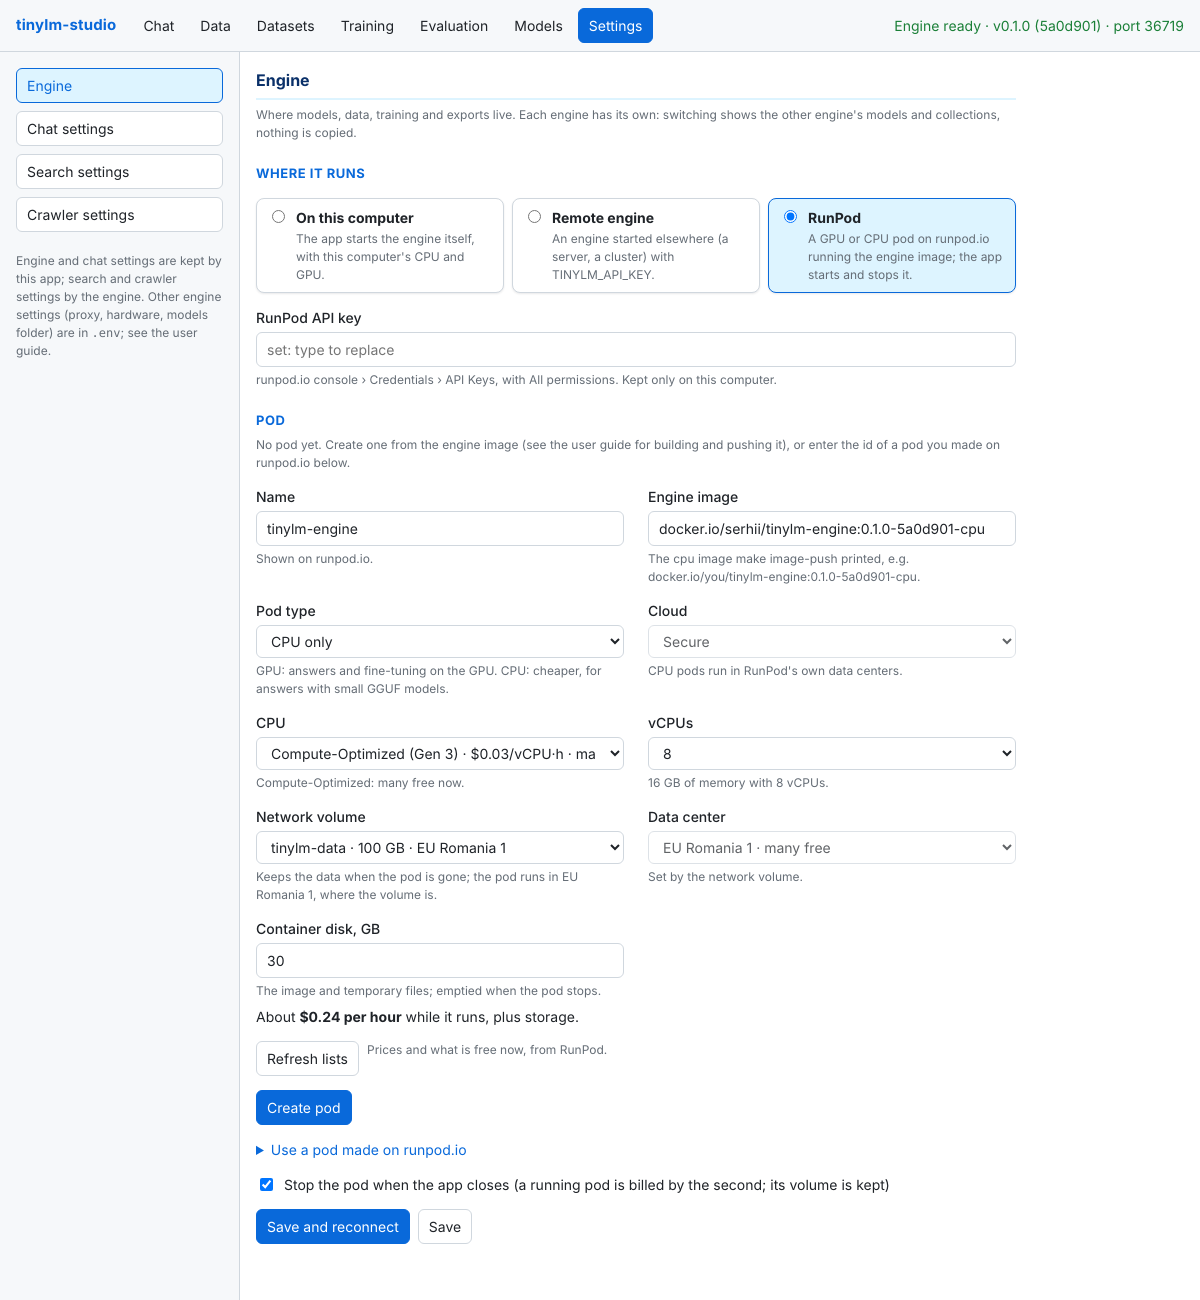
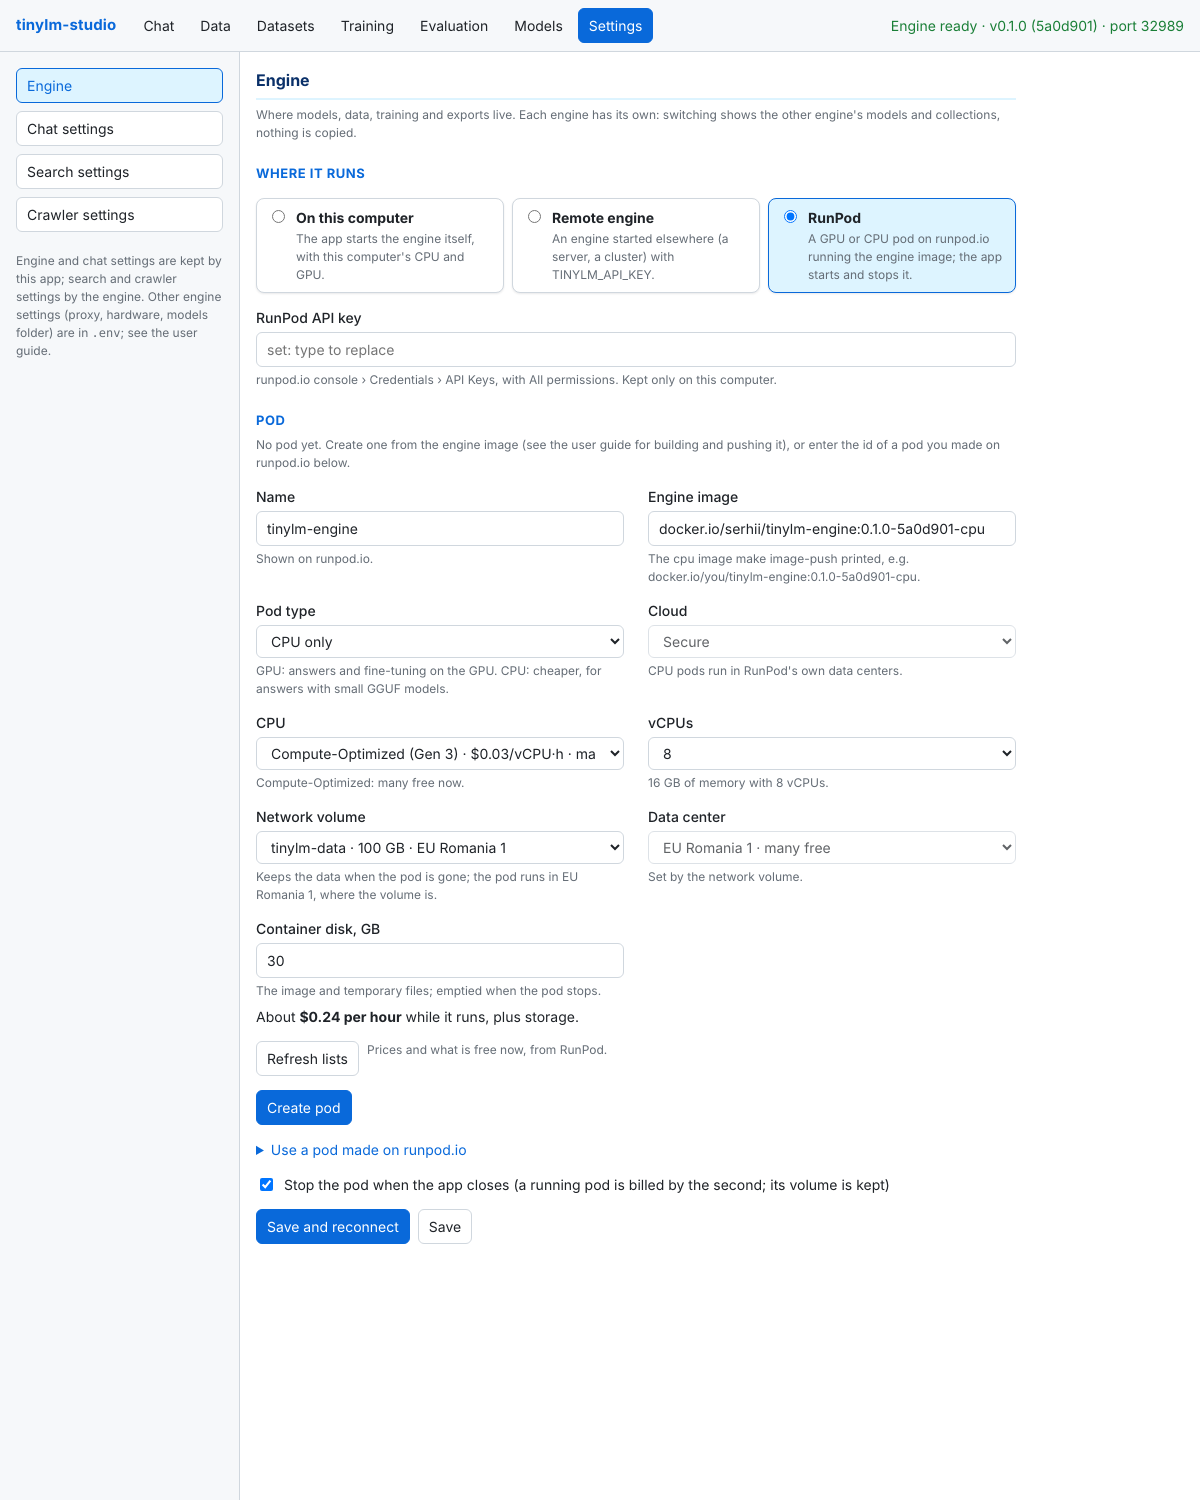
RunPod: GPUs as a table with memory, price and availability highlighted
The GPU choice is a table instead of a select: maker badge, video memory, price per hour (the
cheapest free one in green) and a colored "free now" badge; clicking a row chooses it, and
GPUs the image cannot run on (AMD) are greyed out.

Claude-Session: https://claude.ai/code/session_01K6iyxnxtYDs5kNr5qmfTjK

diff --git a/desktop/src/renderer/EngineSettings.tsx b/desktop/src/renderer/EngineSettings.tsx
@@ -409,6 +409,9 @@ const RANK: Record<Availability, number> = {
 const money = (dollars: number) =>
   `$${dollars < 1 ? dollars.toFixed(3).replace(/0$/, "") : dollars.toFixed(2)}`;
 
+// The CUDA version the engine image is built for (see runpod.ts).
+const MIN_CUDA = "12.6";
+
 /** "NVIDIA", "AMD"; RunPod says UNKNOWN when it does not know. */
 const maker = (manufacturer: string) =>
   manufacturer === "UNKNOWN" ? "Unknown maker" : manufacturer;
@@ -533,45 +536,33 @@ function PodForm({
         </Field>
 
         {spec.kind === "gpu" ? (
-          <Field
-            label="GPU"
-            hint={
-              gpu
-                ? `${maker(gpu.manufacturer)}, ${gpu.memory} GB of video memory; ${AVAILABILITY[gpu.availability]} now.`
-                : catalog
-                  ? "Not in RunPod's list for this cloud."
-                  : "A RunPod GPU type id; load the lists to choose with prices."
-            }
-          >
-            {catalog ? (
-              <select
-                value={spec.gpu}
-                onChange={(e) => set({ gpu: e.target.value, dataCenter: "" })}
-              >
-                {!gpu && (
-                  <option value={spec.gpu}>{spec.gpu || "Choose"}</option>
-                )}
-                {sortedGpus.map((g) => (
-                  <option
-                    key={g.id}
-                    value={g.id}
-                    disabled={g.manufacturer !== "NVIDIA"}
-                  >
-                    {maker(g.manufacturer)} · {g.name} · {g.memory} GB ·{" "}
-                    {money(g.price)}/h ·{" "}
-                    {g.manufacturer === "NVIDIA"
-                      ? AVAILABILITY[g.availability]
-                      : "the image needs NVIDIA (CUDA)"}
-                  </option>
-                ))}
-              </select>
-            ) : (
+          catalog ? (
+            <div className="settings-field wide">
+              <span>GPU</span>
+              <GpuTable
+                gpus={sortedGpus}
+                chosen={spec.gpu}
+                choose={(id) => set({ gpu: id, dataCenter: "" })}
+              />
+              <small className="muted">
+                {gpu
+                  ? `${maker(gpu.manufacturer)} ${gpu.name}, ${gpu.memory} GB of video memory; ${AVAILABILITY[gpu.availability]} now.`
+                  : `${spec.gpu || "None"} is not in RunPod's list for this cloud: choose one.`}{" "}
+                The green price is the cheapest GPU free now. Only hosts with
+                CUDA {MIN_CUDA}+, which the image needs.
+              </small>
+            </div>
+          ) : (
+            <Field
+              label="GPU"
+              hint="A RunPod GPU type id; load the lists to choose with prices."
+            >
               <input
                 value={spec.gpu}
                 onChange={(e) => set({ gpu: e.target.value })}
               />
-            )}
-          </Field>
+            </Field>
+          )
         ) : (
           <>
             <Field
@@ -750,3 +741,86 @@ function PodForm({
     </>
   );
 }
+
+/** RunPod's GPUs as a table, so memory, price and what is free stand out; a row is chosen by
+ * clicking it. Only NVIDIA GPUs can be chosen: the image needs CUDA. */
+function GpuTable({
+  gpus,
+  chosen,
+  choose,
+}: {
+  gpus: RunPodCatalog["gpus"];
+  chosen: string;
+  choose: (id: string) => void;
+}) {
+  const cheapest = Math.min(
+    ...gpus.filter((g) => usable(g)).map((g) => g.price),
+  );
+  return (
+    <div className="gpu-table">
+      <table>
+        <thead>
+          <tr>
+            <th>Maker</th>
+            <th>GPU</th>
+            <th className="num">Memory</th>
+            <th className="num">Price</th>
+            <th>Free now</th>
+          </tr>
+        </thead>
+        <tbody>
+          {gpus.map((g) => {
+            const ok = g.manufacturer === "NVIDIA";
+            return (
+              <tr
+                key={g.id}
+                className={[
+                  g.id === chosen ? "chosen" : "",
+                  ok ? "" : "unusable",
+                ].join(" ")}
+                aria-selected={g.id === chosen}
+                title={
+                  ok ? g.id : "The engine image runs on NVIDIA (CUDA) only"
+                }
+                onClick={() => ok && choose(g.id)}
+              >
+                <td>
+                  <span
+                    className={`maker maker-${g.manufacturer.toLowerCase()}`}
+                  >
+                    {maker(g.manufacturer)}
+                  </span>
+                </td>
+                <td className="gpu-name">{g.name}</td>
+                <td className="num">
+                  <span className="vram">{g.memory} GB</span>
+                </td>
+                <td className="num">
+                  <span
+                    className={`price ${usable(g) && g.price === cheapest ? "cheapest" : ""}`}
+                  >
+                    {money(g.price)}/h
+                  </span>
+                </td>
+                <td>
+                  {ok ? (
+                    <span
+                      className={`free free-${g.availability.toLowerCase()}`}
+                    >
+                      {AVAILABILITY[g.availability]}
+                    </span>
+                  ) : (
+                    <span className="muted">needs NVIDIA image</span>
+                  )}
+                </td>
+              </tr>
+            );
+          })}
+        </tbody>
+      </table>
+    </div>
+  );
+}
+
+const usable = (g: RunPodCatalog["gpus"][number]) =>
+  g.manufacturer === "NVIDIA" && g.availability !== "NONE";

diff --git a/desktop/src/renderer/styles.css b/desktop/src/renderer/styles.css
@@ -19,6 +19,8 @@
   --row-hover: #f6f8fa;
   --ok-soft: #dafbe1;
   --bad-soft: #ffebe9;
+  --warn: #9a6700;
+  --warn-soft: #fff8c5;
   --shadow: 0 1px 2px rgba(31, 35, 40, 0.06), 0 1px 3px rgba(31, 35, 40, 0.04);
   color-scheme: light dark;
 }
@@ -43,6 +45,8 @@
     --row-hover: #161b22;
     --ok-soft: #12261e;
     --bad-soft: #2d1214;
+    --warn: #d29922;
+    --warn-soft: #2b2111;
     --shadow: 0 1px 2px rgba(0, 0, 0, 0.4);
   }
 }
@@ -314,3 +318,26 @@ tbody tr:hover > td { background: var(--row-hover); }
 .pod-existing summary { cursor: pointer; color: var(--accent); }
 .pod-existing .settings-grid { margin-top: 10px; }
 .pod-price { margin: 4px 0 10px; }
+/* RunPod's GPUs: memory, price and availability stand out. */
+.settings-field.wide { grid-column: 1 / -1; }
+.gpu-table { max-height: 300px; overflow-y: auto; border: 1px solid var(--border); border-radius: 6px; background: var(--card); }
+.gpu-table table { width: 100%; margin: 0; }
+.gpu-table th { position: sticky; top: 0; z-index: 1; }
+.gpu-table th, .gpu-table td { vertical-align: middle; white-space: nowrap; padding: 6px 10px; }
+.gpu-table th.num, .gpu-table td.num { text-align: right; }
+.gpu-table td.gpu-name { white-space: normal; width: 100%; }
+.gpu-table tbody tr { cursor: pointer; }
+.gpu-table tbody tr.chosen { background: var(--accent-soft); box-shadow: inset 3px 0 0 var(--accent); }
+.gpu-table tbody tr.unusable { cursor: not-allowed; opacity: 0.55; }
+.gpu-table .gpu-name { font-weight: 600; }
+.gpu-table .maker { display: inline-block; font-size: 11px; font-weight: 600; padding: 0 6px; border-radius: 4px; border: 1px solid var(--border); }
+.gpu-table .maker-nvidia { color: var(--ok); border-color: var(--ok); }
+.gpu-table .maker-amd { color: var(--bad); border-color: var(--bad); }
+.gpu-table .vram { display: inline-block; font-weight: 600; padding: 0 6px; border-radius: 4px; background: var(--accent-soft); color: var(--accent); }
+.gpu-table .price { font-weight: 600; font-variant-numeric: tabular-nums; }
+.gpu-table .price.cheapest { color: var(--ok); }
+.gpu-table .free { display: inline-block; font-size: 12px; padding: 0 8px; border-radius: 10px; }
+.gpu-table .free-high { background: var(--ok-soft); color: var(--ok); }
+.gpu-table .free-medium { background: var(--ok-soft); color: var(--ok); opacity: 0.85; }
+.gpu-table .free-low { background: var(--warn-soft); color: var(--warn); }
+.gpu-table .free-none { background: var(--bad-soft); color: var(--bad); }

diff --git a/docs/user-guide.md b/docs/user-guide.md
@@ -462,7 +462,7 @@ prices and what is free now (**Refresh lists** loads them again; a typed new key
 | Name | `tinylm-engine` | The pod's name on runpod.io |
 | Pod type | GPU | **GPU** (the `cuda` image): answers and fine-tuning on the GPU. **CPU only** (the `cpu` image): cheaper, for answers with small GGUF models |
 | Cloud | Secure | **Secure** (RunPod's data centers) or **Community** (cheaper, other people's machines); CPU pods are Secure only. Prices in the lists follow it |
-| GPU | NVIDIA GeForce RTX 4090 | Maker (NVIDIA, AMD), video memory, price per hour and how many are free now (many, some, few, none); free ones first, cheapest first. Only GPUs on hosts with CUDA 12.6 or newer, which the image needs; AMD GPUs are listed but cannot be chosen, as the image runs on NVIDIA (CUDA) only |
+| GPU | NVIDIA GeForce RTX 4090 | A table of RunPod's GPUs; click a row to choose. Each shows its maker (NVIDIA, AMD), video memory, price per hour (green: the cheapest one free now) and how many are free now (many, some, few, none, colored). NVIDIA GPUs come first, then free ones, then cheaper ones. Only GPUs on hosts with CUDA 12.6 or newer, which the image needs; AMD GPUs are shown greyed out, as the image runs on NVIDIA (CUDA) only |
 | CPU, vCPUs | none, 8 | For a CPU pod: the CPU type with its price per vCPU, and the number of vCPUs (memory grows with it) |
 | Network volume | none | One of your network volumes, to keep the data on; it outlives the pod and sets the data center |
 | Data center | Any | Where the chosen GPU or CPU is free now; **Any** lets RunPod choose |
